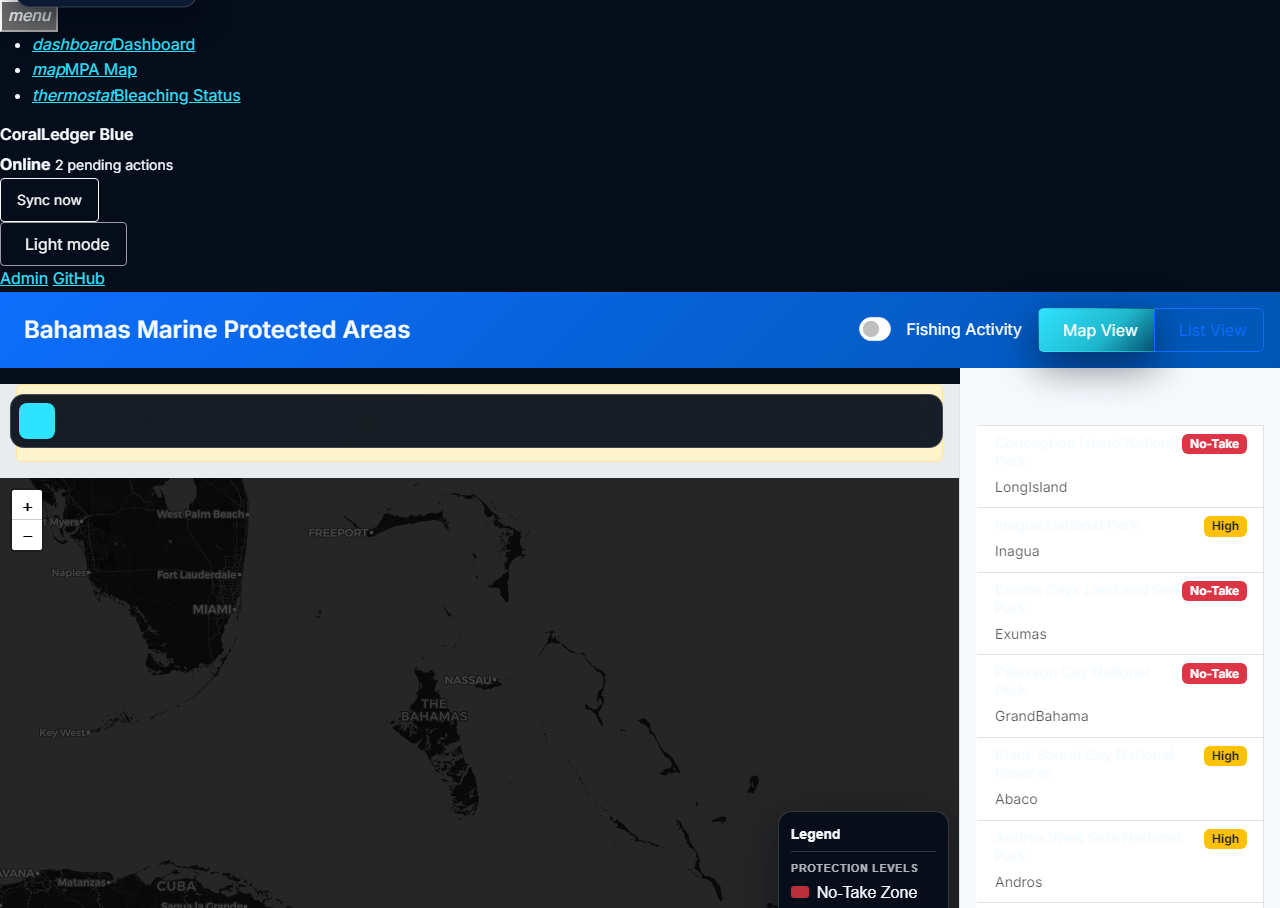
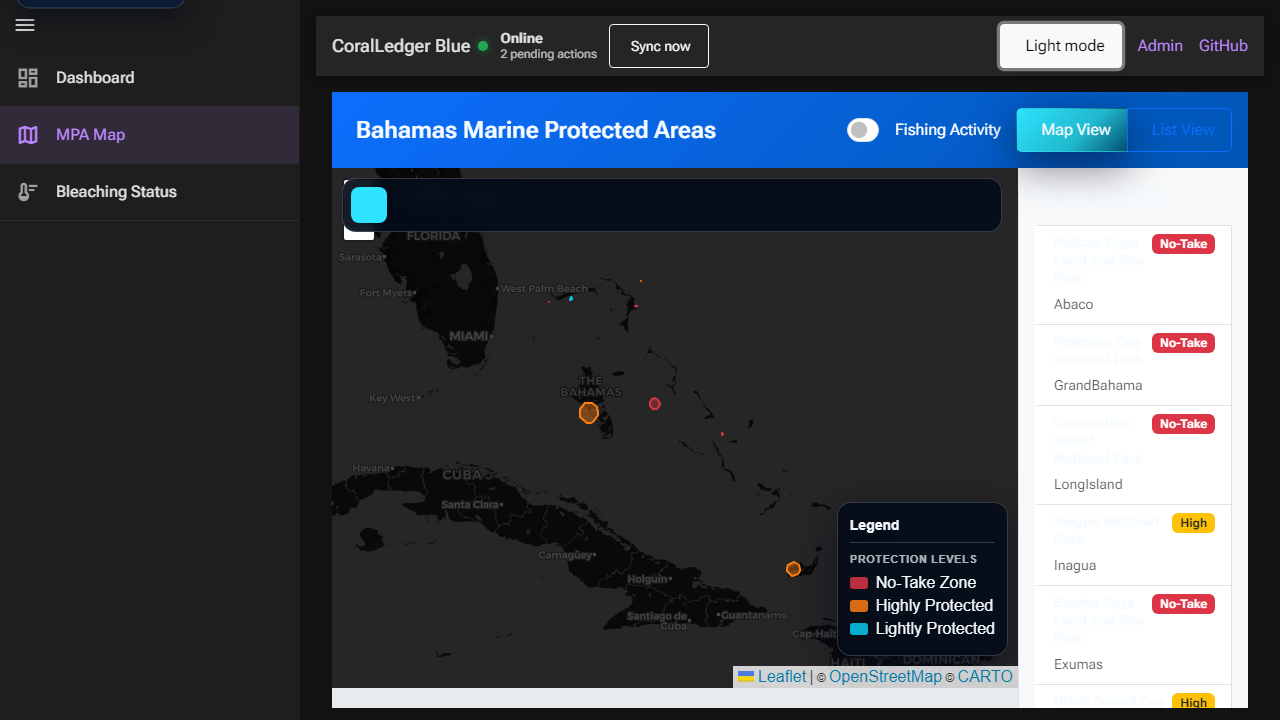
docs: Update README with new hero image and working screenshots
- Replace github-header.png with hero.jpg (marine intelligence concept art)
- Update dashboard screenshot with working KPI cards (8 MPAs, 2,835 km²)
- Update map screenshot with dark theme and legend
- Add light theme screenshot showing full MPA list
- Remove broken mpa-panel screenshot with error state
- Update screenshot descriptions to match actual content

🤖 Generated with [Claude Code](https://claude.com/claude-code)

diff --git a/README.md b/README.md
@@ -1,6 +1,6 @@
 # 🐚 CoralLedger Blue
 
-![CoralLedger Blue](github-header.png)
+![CoralLedger Blue](hero.jpg)
 
 🪸 Share-ready preview: use `og-image.png` (1200×630) as the repository's `og:image`.
 
@@ -11,8 +11,6 @@
 [![PostGIS](https://img.shields.io/badge/PostGIS-3.4-336791)](https://postgis.net/)
 [![License](https://img.shields.io/badge/License-MIT-green.svg)](LICENSE)
 [![GitHub](https://img.shields.io/github/stars/caribdigital/coralledgerblue?style=social)](https://github.com/caribdigital/coralledgerblue)
-
-<!-- TODO: Add hero screenshot of the map with MPAs, bleaching panel, and fishing events visible -->
 
 > **Real-time coral bleaching monitoring. Fishing vessel tracking. 8 Marine Protected Areas. One command to run.**
 
@@ -67,16 +65,16 @@ We're actively looking for contributors in these areas:
 ## Screenshots
 
 ### Marine Intelligence Dashboard
-![Dashboard with KPI cards, map preview, alerts, and MPA table](docs/screenshots/dashboard-dark.png)
-*The dashboard features real-time KPI cards for Protected Areas, Sea Temperature, and Bleaching Alerts, with an integrated map preview and MPA summary table.*
+![Dashboard with KPI cards, map preview, and alerts panel](docs/screenshots/dashboard-dark.png)
+*The dashboard features real-time KPI cards for Protected Areas (8 MPAs), Total Protected area (2,835 km²), Sea Temperature, and Bleaching Alerts. The integrated map preview and recent alerts panel provide at-a-glance monitoring.*
 
 ### Interactive Map with Dark Theme
 ![Interactive map with CartoDB Dark Matter tiles and MPA polygons](docs/screenshots/map-dark-with-legend.png)
-*The interactive map displays all 8 Bahamas MPAs with protection level styling, CartoDB Dark Matter tiles, and a dynamic legend.*
+*The interactive map displays all 8 Bahamas MPAs with protection level styling (No-Take, Highly Protected, Lightly Protected), CartoDB Dark Matter tiles, and a dynamic legend. The sidebar lists all MPAs with their protection status badges.*
 
-### MPA Detail Panel with Live Data
-![MPA detail panel showing bleaching status and DHW trend](docs/screenshots/mpa-panel-with-bleaching.png)
-*Select any MPA to view live NOAA bleaching data, sea surface temperature, DHW trend sparklines, and alert status.*
+### Light Theme with MPA List
+![Interactive map with OpenStreetMap tiles and full MPA list](docs/screenshots/map-light-with-mpa-list.png)
+*Switch to light mode for a clean view with OpenStreetMap tiles. The MPA list shows all protected areas with quick-access badges for protection levels.*
 
 > **Note:** To see the app in action, run `dotnet run --project src/CoralLedger.AppHost`
 
